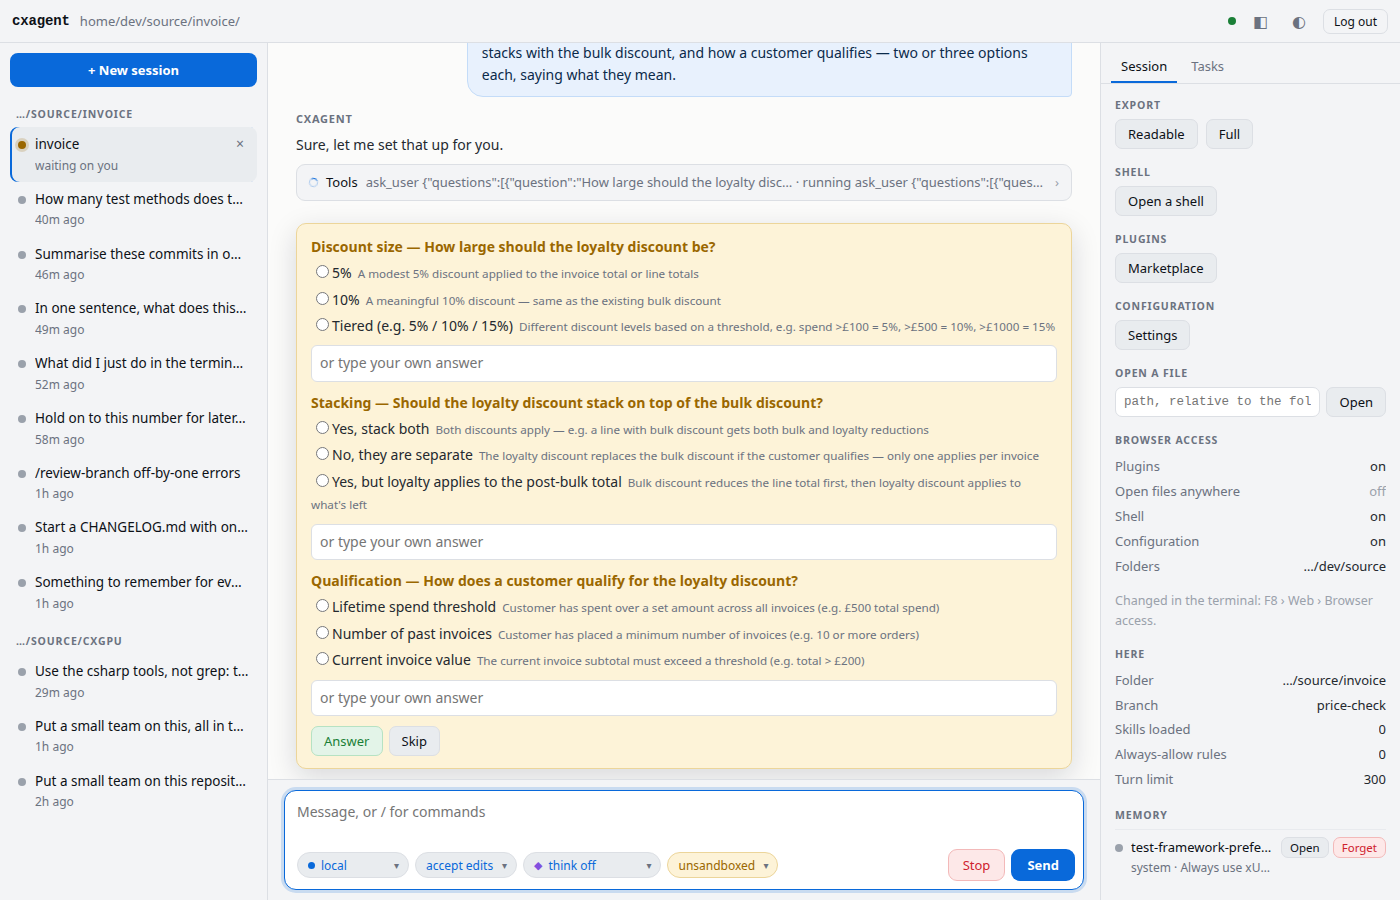
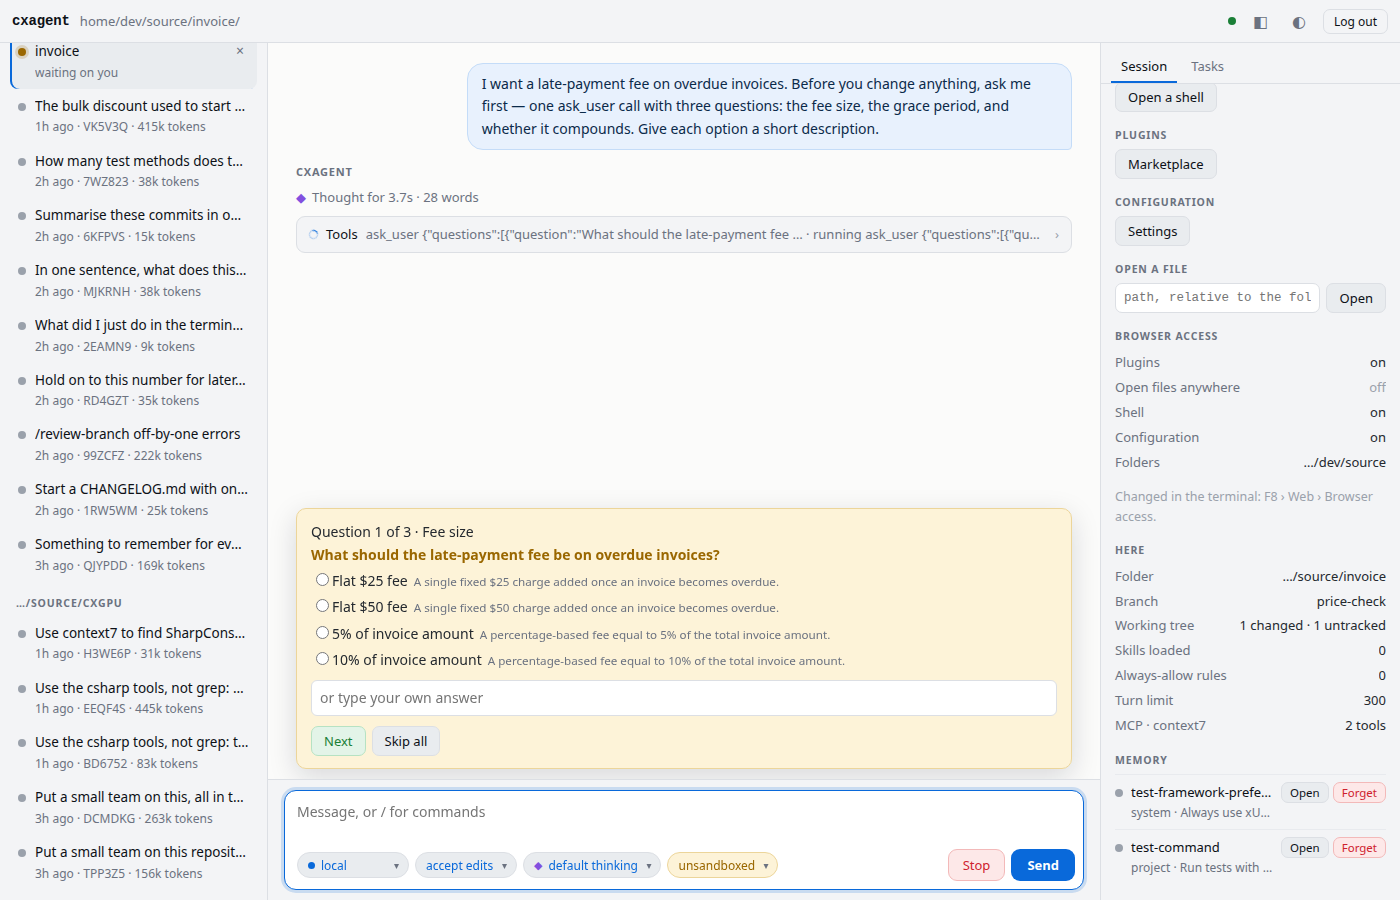
Show stopping, asking and exporting in both front ends in the walkthrough
Escape, the question steps and their answers summary, and export each get a
Terminal/Browser pair; the questions and export are retaken on one live
invoice session so both sides show the same moment.

diff --git a/docs/screenshots/README.md b/docs/screenshots/README.md
@@ -50,30 +50,37 @@ agent, not the session. Closing the tab leaves the agent where it was.
 
 ## Stopping without losing what you typed
 
-![A long answer about tax and edge cases cut off by Stopped., with the queued line "and end with a list of open questions" back in the composer](03-escape.png)
+![A long answer about tax and edge cases cut off by Stopped., with the queued line "and end with a list of open questions" back in the composer](03-escape.png "Terminal")
+![The browser after Esc: an answer about a late-payment fee, discounts and rounding cut off by Stopped., with the queued line "and end with a list of open questions" back in its composer](03-escape-browser.png "Browser")
 
 Escape ends the turn. Anything queued goes back into the composer rather than being discarded — it
-was never sent, so stopping must not eat it.
+was never sent, so stopping must not eat it. Until then it waits above the composer, with *Cancel ·
+back to composer* to take it back without stopping anything. With both front ends on one session,
+the text goes back to whichever one pressed Escape.
 
 ---
 
 ## Asking the user
 
-![The model's first ask_user call open in the composer: question 1 of 3, Discount size, with 5%, 10% and Tiered, each described](04-question-step-1.png "Terminal")
-![The browser showing the same call as one form: all three questions — discount size, stacking and qualification — with their options, a free-text box under each, and Answer and Skip](04-question-step-1-browser.png "Browser")
+![The model's ask_user call open in the composer: question 1 of 3, Fee size, with a flat $25 or $50 fee or 5% or 10% of the invoice, each described](04-question-step-1.png "Terminal")
+![The same call in the browser at the same moment: Question 1 of 3 · Fee size, the four options with their descriptions, a box for your own answer, and Next and Skip all](04-question-step-1-browser.png "Browser")
 
-In `invoice`, asked for a loyalty discount and told to ask first: one call, three questions, each
+In `invoice`, asked for a late-payment fee and told to ask first: one call, three questions, each
 option saying what it means. Both front ends present them as steps — one question at a time, Back
 and Next — and both show your answers together before anything is sent.
 
-![Question 3 of 3, Qualification, with Number of past invoices highlighted and Alt+← to go back in the hint line](05-question-step-3.png)
+![Question 3 of 3, Compounding, with No — one-time fee highlighted and Alt+← to go back in the hint line](05-question-step-3.png "Terminal")
+![The browser on question 3 of 3, Compounding, with No — one-time fee chosen, and Back, Review and Skip all](05-question-step-3-browser.png "Browser")
 
 Every option carries a description. A list of bare labels asks the user to guess what the model was
-thinking. `Alt+←` appears from step 2 — an answer can be reconsidered while reading the next question.
+thinking. `Alt+←` appears from step 2 — `Back` in the browser — so an answer can be reconsidered while
+reading the next question.
 
-![The answers summary: Discount size 10%, Stacking Yes, stack both, Qualification Number of past invoices](06-question-summary.png)
+![The answers summary: Fee size Flat $50 fee, Grace period 14 days, Compounding No — one-time fee](06-question-summary.png "Terminal")
+![The browser's Your answers: the same three answers, with Send and Change the last one](06-question-summary-browser.png "Browser")
 
-Then every answer under its header before any of it is sent.
+Then every answer under its header before any of it is sent. Each front end steps through its own
+copy; whichever sends first answers, and the other's closes.
 
 ---
 
@@ -432,13 +439,13 @@ model is picked from what the endpoint serves. The first save wires the session;
 
 ## Exporting a conversation
 
-![The export dialog over the team session: whole session, Readable, saved to a file named 2026-11-07-put-a-team-on-this-one-worker.md, about 20 KB across 34 messages and 3 sub-agents](38-export.png "Terminal")
+![The export dialog over the invoice session: whole session, Readable, saved to a file named 2026-11-07-from-what-you-already-know-no.md, about 7 KB across 4 messages](38-export.png "Terminal")
 ![The browser's export form at the same moment: whole session, Readable, Download, and the same size line](38-export-browser.png "Browser")
 
 `F12` — or `/export` — writes the conversation as markdown. *Readable* is for a person: what was said
 and done, each tool call a line, edits as diffs. *Full* is for another agent to carry on from: every
-tool result, the thinking, the system prompt. The three sub-agents counted at the bottom go into the
-file where they worked, so it reads as a timeline. The size is known before anything is written. The
+tool result, the thinking, the system prompt. Sub-agents, counted at the bottom, go into the file
+where they worked, so it reads as a timeline. The size is known before anything is written. The
 browser's *Export…* opens the same choices — scope, detail, Advanced and the size line — with a download in place of
 the file.
 
